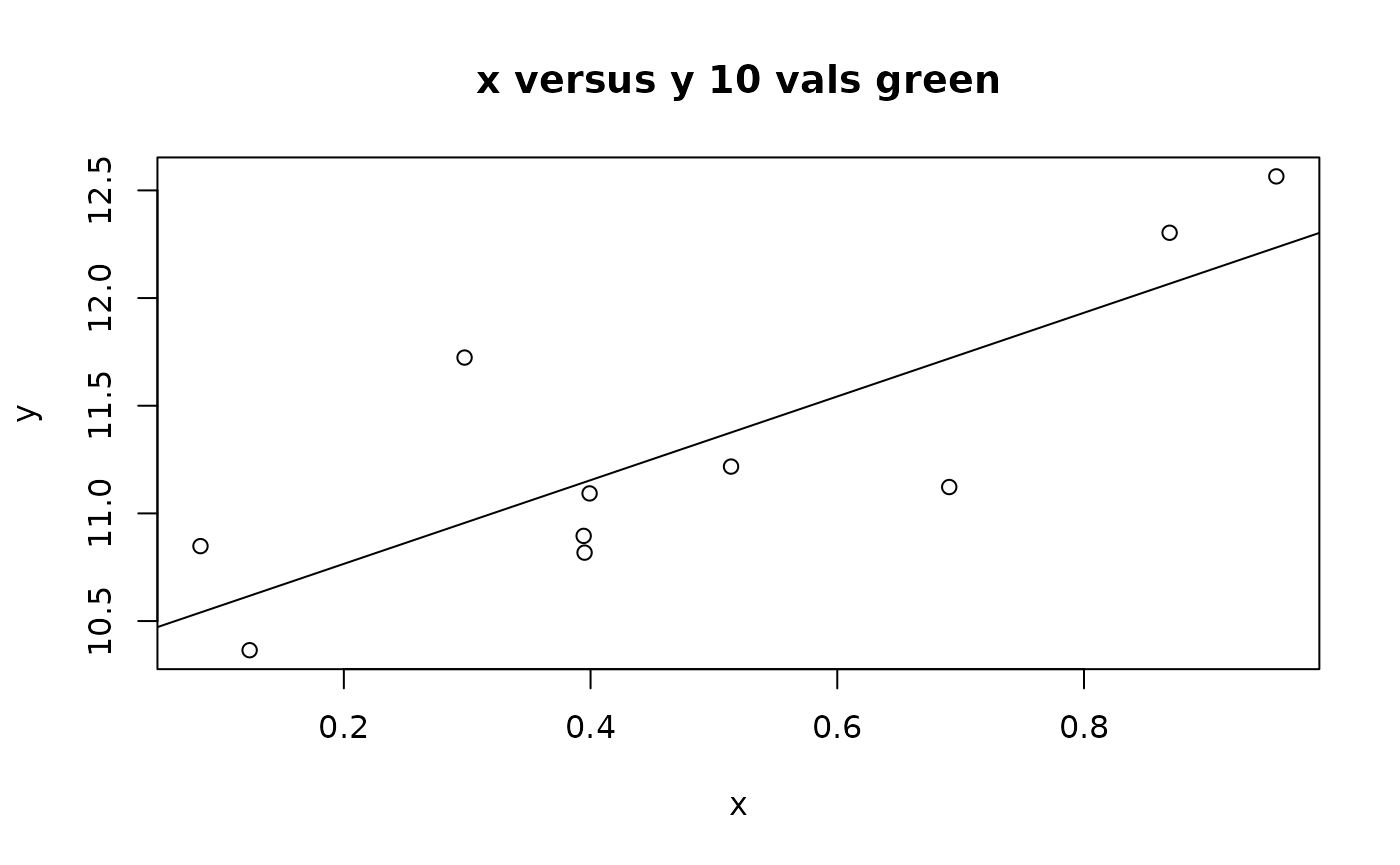
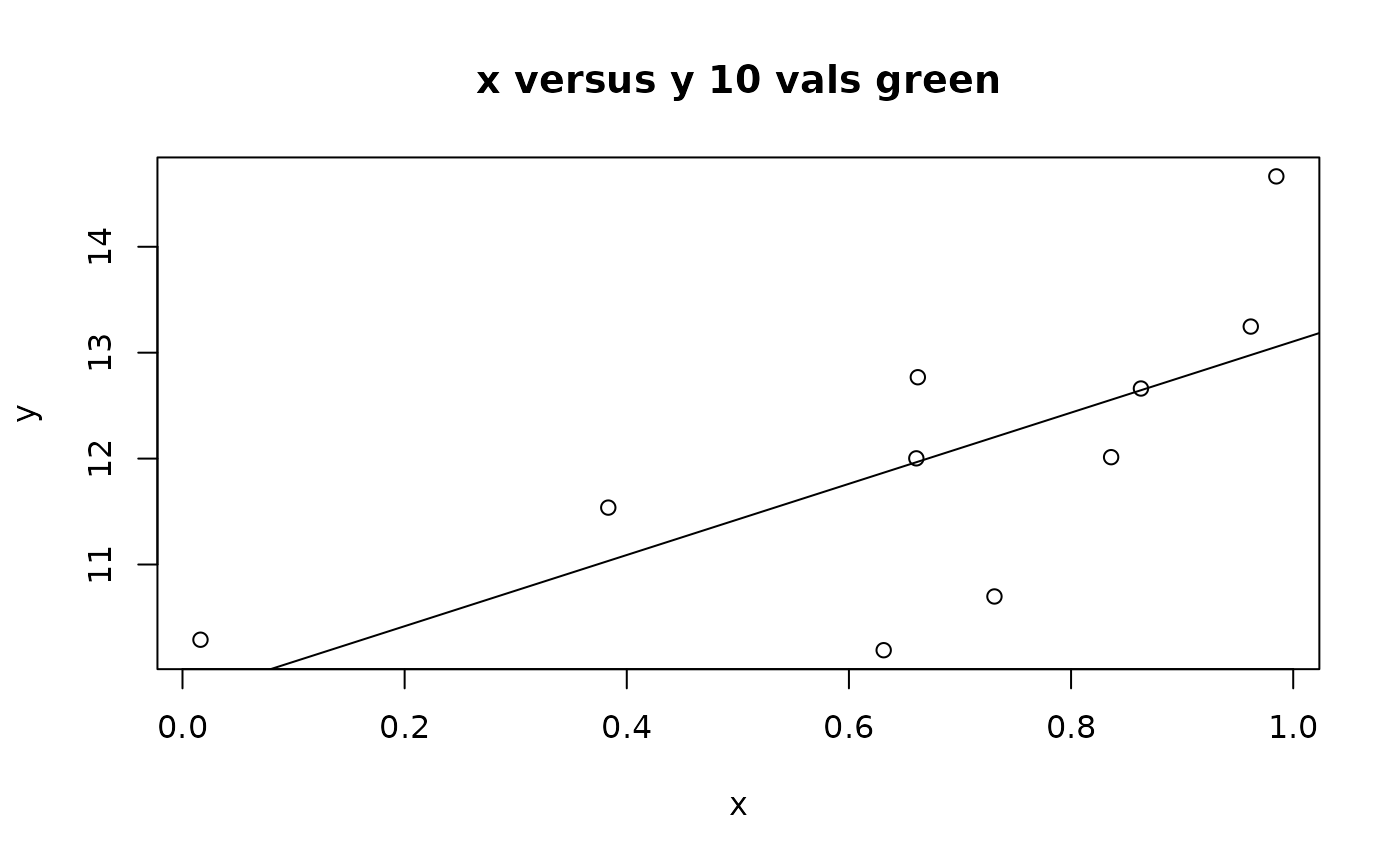
update pkgdown site

diff --git a/docs/index.html b/docs/index.html
@@ -154,7 +154,7 @@
 <ol start="3" style="list-style-type: decimal">
 <li>On the Build tab, click Install and Restart to make sure it builds.</li>
 <li>On the Build tab, click Check to make sure it passes all the checks.</li>
-<li>Type the code <code><a href="https://pkgdown.r-lib.org/reference/build_site.html" class="external-link">pkgdown::build_site()</a></code> and make sure the <strong>pkgdown</strong> building works. If on RStudio Cloud, you will need to use <code>pkgdown::build_site(override = list(destination = "~/docs"))</code> to</li>
+<li>Type the code <code><a href="https://pkgdown.r-lib.org/reference/build_site.html" class="external-link">pkgdown::build_site()</a></code> and make sure the <strong>pkgdown</strong> building works. If on RStudio Cloud, you will need to use <code>pkgdown::build_site(override = list(destination = "~/docs"))</code> to see the webpage.</li>
 </ol>
 <p>Note steps 3 and 4 are to make sure your computer is set up to build and check packages. As long as you haven’t edited the package yet, it will build and pass check.</p>
 </div>
@@ -223,7 +223,7 @@
 </h2>
 <p>The United States Department of Commerce (DOC) GitHub project code is provided on an ‘as is’ basis and the user assumes responsibility for its use. DOC has relinquished control of the information and no longer has responsibility to protect the integrity, confidentiality, or availability of the information. Any claims against the Department of Commerce stemming from the use of its GitHub project will be governed by all applicable Federal law. Any reference to specific commercial products, processes, or services by service mark, trademark, manufacturer, or otherwise, does not constitute or imply their endorsement, recommendation or favoring by the Department of Commerce. The Department of Commerce seal and logo, or the seal and logo of a DOC bureau, shall not be used in any manner to imply endorsement of any commercial product or activity by DOC or the United States Government.”</p>
 <hr>
-<p><img src="https://raw.githubusercontent.com/nmfs-general-modeling-tools/nmfspalette/main/man/figures/noaa-fisheries-rgb-2line-horizontal-small.png" height="75" alt="NOAA Fisheries"></p>
+<p><img src="https://raw.githubusercontent.com/nmfs-general-modeling-tools/nmfspalette/main/man/figures/noaa-fisheries-rgb-2line-horizontal-small.png" width="200" alt="NOAA Fisheries"></p>
 <p><a href="https://www.commerce.gov/" class="external-link">U.S. Department of Commerce</a> | <a href="https://www.noaa.gov" class="external-link">National Oceanographic and Atmospheric Administration</a> | <a href="https://www.fisheries.noaa.gov/" class="external-link">NOAA Fisheries</a></p>
 </div>
 </div>

diff --git a/docs/articles/samplevignette.html b/docs/articles/samplevignette.html
@@ -161,7 +161,7 @@
 <span class="va">y</span> <span class="op">&lt;-</span> <span class="fl">10</span> <span class="op">+</span> <span class="fl">3</span><span class="op">*</span><span class="va">x</span> <span class="op">+</span> <span class="fu"><a href="https://rdrr.io/r/stats/Normal.html" class="external-link">rnorm</a></span><span class="op">(</span><span class="fl">10</span><span class="op">)</span>
 <span class="fu"><a href="../reference/sampleplot.html">sampleplot</a></span><span class="op">(</span><span class="va">x</span>, <span class="va">y</span><span class="op">)</span></code></pre></div>
 <pre><code><span class="co">## (Intercept)           x </span>
-<span class="co">##   10.376958    1.943484</span></code></pre>
+<span class="co">##    9.745572    3.360633</span></code></pre>
 <div class="sourceCode" id="cb6"><pre class="downlit sourceCode r">
 <code class="sourceCode R"><span class="fu"><a href="https://rdrr.io/r/graphics/title.html" class="external-link">title</a></span><span class="op">(</span><span class="fu"><a href="../reference/samplefunction.html">samplefunction</a></span><span class="op">(</span><span class="st">"x versus y"</span>, y<span class="op">=</span><span class="st">"10 vals"</span>, z<span class="op">=</span><span class="st">"green"</span><span class="op">)</span><span class="op">)</span></code></pre></div>
 <p><img src="samplevignette_files/figure-html/unnamed-chunk-1-1.png" width="700" style="display: block; margin: auto;"></p>

diff --git a/docs/reference/sampleplot.html b/docs/reference/sampleplot.html
@@ -130,7 +130,7 @@
 <span class="r-in"><span class="fu">sampleplot</span><span class="op">(</span><span class="va">x</span>, <span class="va">y</span><span class="op">)</span></span>
 <span class="r-plt img"><img src="sampleplot-1.png" alt="" width="700" height="433"></span>
 <span class="r-out co"><span class="r-pr">#&gt;</span> (Intercept)           x </span>
-<span class="r-out co"><span class="r-pr">#&gt;</span>    3.669781    4.807259 </span>
+<span class="r-out co"><span class="r-pr">#&gt;</span>    8.710462    2.791357 </span>
 </code></pre></div>
     </div>
   </div>
